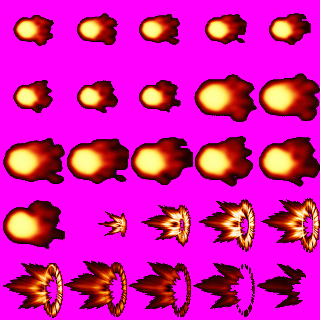
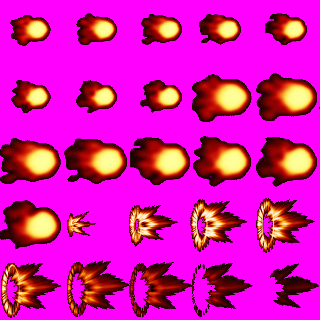
Flipped fireball graphics around. All images and resources should consider right-facing to be the default position. Added angling to the ability casting, abilities now orient towards the destination point while moving. Direction Enums now have a third property which correlates to their degrees rotat

diff --git a/DungeonDigger/src/main/java/dungeonDigger/entities/Ability.java b/DungeonDigger/src/main/java/dungeonDigger/entities/Ability.java
@@ -17,7 +17,11 @@ import dungeonDigger.Tools.References;
 import dungeonDigger.Tools.Toolbox;
 import dungeonDigger.collisions.QuadCollisionEngine;
 import dungeonDigger.gameFlow.MultiplayerDungeon;
-
+/**
+ * This class should handle all abilities, their animations, movement, collisions, and life-cycle.
+ * Abilities should include all spells, skills, etc as well.
+ * @author erbutler
+ */
 public class Ability extends GameObject {
 	public static Ability EMPTY_ABILITY = new Ability("Empty") {
 		@Override
@@ -30,8 +34,9 @@ public class Ability extends GameObject {
 	private SpriteSheet spriteSheet, hitFrames;
 	private Animation animation;
 	private Agent owner;
-	private Vector2f startPoint = new Vector2f(), middlePoint, endPoint;
 	private int speed;
+	private Vector2f startPoint = new Vector2f(), middlePoint, endPoint;
+	private Float lineOfTravel = null;
 	private AbilityDeliveryMethod adm;
 	transient double distance = -1;
 	transient double intervals = 0;
@@ -81,6 +86,7 @@ public class Ability extends GameObject {
 			References.log.fine("<==ABILITY==> Animation stopped.");
 			active = false; 
 			inited = false;
+			lineOfTravel = null;
 		}
 	}
 	
@@ -89,7 +95,7 @@ public class Ability extends GameObject {
 		Input inputs = container.getInput();
 		if( !active ) { 
 			if( waitForClick ) {
-				// draw aimer thingy, spinning
+				// Draw aimer thingy, spinning
 				References.IMAGES.get("magicReticle").setRotation( References.IMAGES.get("magicReticle").getRotation() + 5 );
 				References.IMAGES.get("magicReticle").draw(
 						References.myCharacter.getPosition().x - container.getWidth()/2 + inputs.getMouseX() - References.IMAGES.get("magicReticle").getWidth()/2, 
@@ -97,6 +103,13 @@ public class Ability extends GameObject {
 			}
 			return; 
 		}
+		// Angle the spell based on the directionality of the cast
+		if( lineOfTravel == null ) {
+			lineOfTravel = (float) Math.toDegrees( Math.atan2( this.getEndPoint().getY()-this.getPosition().getY(), this.getEndPoint().getX()-this.getPosition().getX() ) );
+		}
+		animation.getCurrentFrame().setRotation( lineOfTravel );
+		//System.out.println("ABILITY ANGLED TO: " + lineOfTravel );
+		
 		animation.draw(this.getPosition().x - animation.getWidth()/2, this.getPosition().y - animation.getHeight()/2);
 	}
 	
@@ -111,7 +124,7 @@ public class Ability extends GameObject {
 			}
 			return;
 		}
-		// This means we are jsut starting
+		// This means we are just starting
 		if( distance == -1 ) { 
 			References.log.fine("Setting up pathing items");
 			distance = Toolbox.distanceBetween(startPoint, endPoint); 
@@ -260,6 +273,14 @@ public class Ability extends GameObject {
 	
 	public void setDeliveryMethod(AbilityDeliveryMethod adm) { this.adm = adm; }
 	public AbilityDeliveryMethod getDeliveryMethod() { return this.adm; }
+
+	public float getLineOfTravel() {
+		return lineOfTravel;
+	}
+
+	public void setLineOfTravel(float lineOfTravel) {
+		this.lineOfTravel = lineOfTravel;
+	}
 
 	public boolean isWaitingForClick() { return waitForClick; }
 	public void setWaitingForClick( boolean b ) { waitForClick = b; }

diff --git a/DungeonDigger/src/main/java/dungeonDigger/Tools/Toolbox.java b/DungeonDigger/src/main/java/dungeonDigger/Tools/Toolbox.java
@@ -37,17 +37,45 @@ public class Toolbox {
 	public static Vector2f directionFrom1To2(Vector2f v1, Vector2f v2){
 		return new Vector2f(v2.x - v1.x, v2.y - v1.y);
 	}
-	// These return a Direction object based on the given information
-	public static Direction getCardinalDirection(Line line) {
-		return getCardinalDirection(line.getStart().x, line.getStart().y, line.getEnd().x, line.getEnd().y);
+	/**
+	 *  This return a Direction object based on the given information
+	 * @param line The line to evaluate
+	 * @param toleranceArray Array of the form - [North Tolerance, East Tolerance, South Tolerance, West Tolerance] measured in whole pixels
+	 * @return A Direction relating to the cardinal direction of the given line, within the tolerances
+	 */
+	public static Direction getCardinalDirection(Line line, int... toleranceArray) {
+		return getCardinalDirection(line.getStart().x, line.getStart().y, line.getEnd().x, line.getEnd().y, toleranceArray);
 	}
-	public static Direction getCardinalDirection(Vector2f origin, Vector2f destination) {
-		return getCardinalDirection(origin.x, origin.y, destination.x, destination.y);
+	/**
+	 * This return a Direction object based on the given information
+	 * @param origin
+	 * @param destination
+	 * @param toleranceArray Array of the form - [North Tolerance, East Tolerance, South Tolerance, West Tolerance] measured in whole pixels
+	 * @return
+	 */
+	public static Direction getCardinalDirection(Vector2f origin, Vector2f destination, int... toleranceArray) {
+		return getCardinalDirection(origin.x, origin.y, destination.x, destination.y, toleranceArray);
 	}
-	public static Direction getCardinalDirection(float xDiff, float yDiff) {
-		return getCardinalDirection(0, 0, xDiff, yDiff);
+	/**
+	 * This return a Direction object based on the given information
+	 * @param xDiff
+	 * @param yDiff
+	 * @param toleranceArray Array of the form - [North Tolerance, East Tolerance, South Tolerance, West Tolerance] measured in whole pixels
+	 * @return
+	 */
+	public static Direction getCardinalDirection(float xDiff, float yDiff, int... toleranceArray) {
+		return getCardinalDirection(0, 0, xDiff, yDiff, toleranceArray);
 	}
-	public static Direction getCardinalDirection(float xOrigin, float yOrigin, float xDestination, float yDestination) {
+	/**
+	 * This return a Direction object based on the given information
+	 * @param xOrigin
+	 * @param yOrigin
+	 * @param xDestination
+	 * @param yDestination
+	 * @param toleranceArray Array of the form - [North Tolerance, East Tolerance, South Tolerance, West Tolerance] measured in whole pixels
+	 * @return
+	 */
+	public static Direction getCardinalDirection(float xOrigin, float yOrigin, float xDestination, float yDestination, int... toleranceArray) {
 		if( xOrigin == xDestination && yOrigin == yDestination ) { return Direction.NONE; }
 		float ETW = Math.signum(xDestination - xOrigin);
 		float NTS = Math.signum(yDestination - yOrigin);

diff --git a/DungeonDigger/src/main/java/dungeonDigger/Enums/Direction.java b/DungeonDigger/src/main/java/dungeonDigger/Enums/Direction.java
@@ -1,20 +1,22 @@
 package dungeonDigger.Enums;
 
 public enum Direction {
-	NORTH (0, -1), 
-	NORTHEAST (1, -1), 
-	EAST (1, 0), 
-	SOUTHEAST (1, 1), 
-	SOUTH (0, 1), 
-	SOUTHWEST (-1, 1), 
-	WEST (-1, 0), 
-	NORTHWEST (-1, -1),
-	NONE (0, 0);
+	NORTH (0, -1, 270f), 
+	NORTHEAST (1, -1, 315f), 
+	EAST (1, 0, 0f), 
+	SOUTHEAST (1, 1, 45f), 
+	SOUTH (0, 1, 90f), 
+	SOUTHWEST (-1, 1, 135f), 
+	WEST (-1, 0, 180f), 
+	NORTHWEST (-1, -1, 225f),
+	NONE (0, 0, 0f);
 	
 	private final int adjX, adjY;
-	Direction(int x, int y) {
+	private final float abilityRotation;
+	Direction(int x, int y, float abRot) {
 		this.adjX = x;
 		this.adjY = y;
+		this.abilityRotation = abRot;
 	}
 	
 	public int adjX() {
@@ -22,5 +24,8 @@ public enum Direction {
 	}
 	public int adjY() {
 		return this.adjY;
+	}
+	public float abilityRotation() {
+		return this.abilityRotation;
 	}
 }
